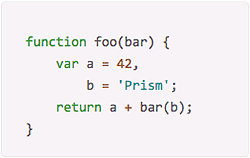
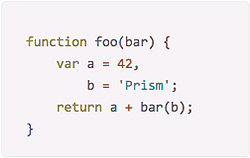
a different value for green

diff --git a/themes/prism-base16-atelierheath.light.css b/themes/prism-base16-atelierheath.light.css
@@ -106,7 +106,7 @@ pre[class*="language-"] {
 .token.control,
 .token.directive,
 .token.unit {
-  color: #379a37;
+  color: #918b3b;
 }
 
 .token.statement,
